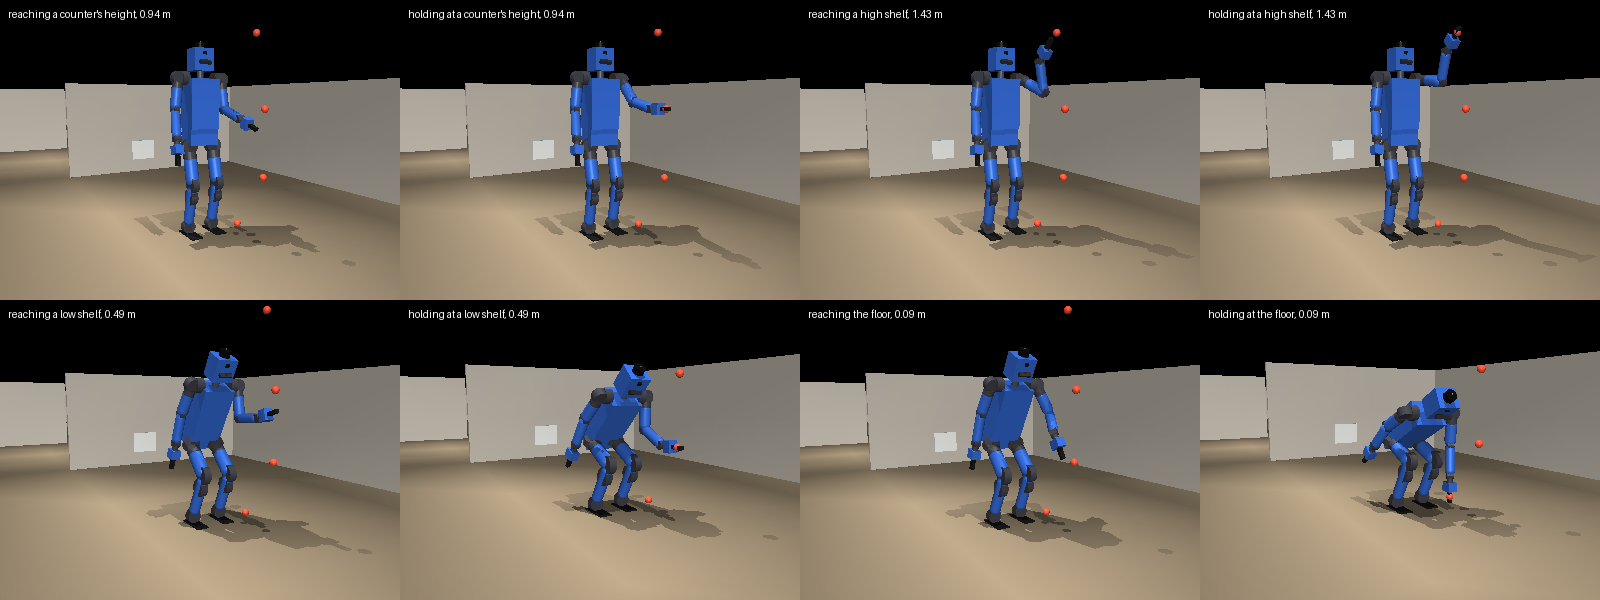
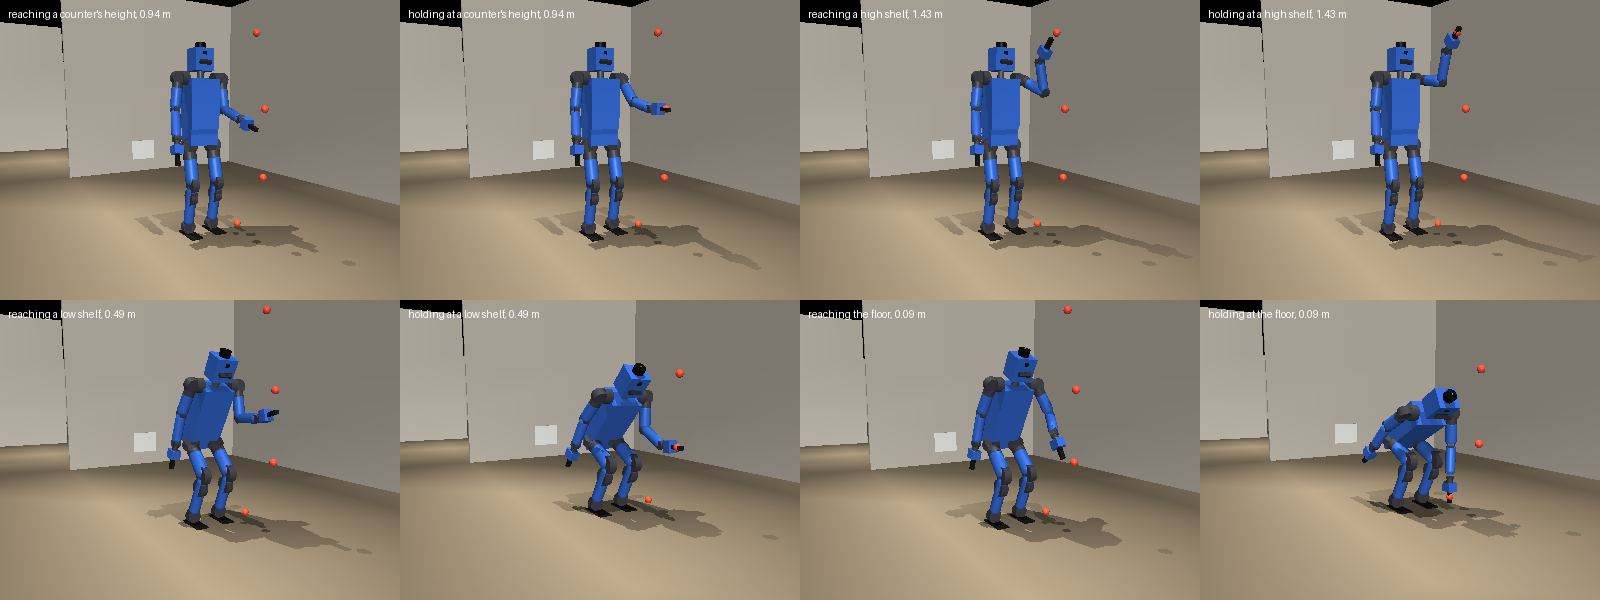
The reach scene through Body, and falls from a bow (#520)
`--view reach` (and `--strip reach`) fly the four heights through `Body`
with the get-up loaded, as served: flown on the standing rig alone, the
scene never showed the watch taking its bows for falls. `--fall` gains a
third table: each posture a reach takes, shoved four ways at 10-45 N*s,
on the standing policy alone (did it fall, and when each check would
have taken it, off the posture and off upright) and as served. The
spike's watches pass the posture held, as the mission's does. The
figure is the scene's filmstrip again, in stage 5's taller rooms.

Changed region(s): [[0.0, 0.0, 1.0, 0.15], [0.0, 0.48, 1.0, 0.66]]

diff --git a/scripts/humanoid_spike.py b/scripts/humanoid_spike.py
@@ -13,7 +13,8 @@ the parts and the bill.
                 its range in turn, then its grippers; `stand` -- on its own
                 feet, its standing policy, shoved, crouching and bowing;
                 `reach` -- a hand to a counter, a high shelf, a low shelf
-                and the floor, each held; `grasp` -- a drawer's handle
+                and the floor, each held, through `Body` with its get-up
+                loaded as served; `grasp` -- a drawer's handle
                 gripped (judged by the gripper's own reading) and the drawer
                 drawn out with a compliant arm, what the hand felt said
                 beside the truth; `demo` -- #466's chest on a counter, its
@@ -1182,27 +1183,127 @@ def reach_world():
   return standing_world(scenery)
 
 
-def reach_scene(h: Humanoid, records: list | None = None):
+def reach_body_world():
+  """The `reach` scene's world and the humanoid behind `Body` in it, its
+  get-up loaded as served -- its own fall watch at work, as wherever it
+  stands (#520: flown on the standing rig alone, the scene never showed
+  that the watch took the deepest bows for falls)."""
+  from pluggybot.body import body_for
+  model, data = reach_world()
+  body = body_for(model, data, policy=_POLICY)
+  return model, data, body
+
+
+def reach_scene(body, model, data, records: list | None = None):
+  """The `reach` scene, once, through `Body`: the left hand to each of
+  `REACH_TARGETS` -- told to the robot in its stance frame -- held, and
+  home. Yields a line when a part begins or ends. Where the grip truly is
+  is OUR grading; its falls are its own watch's."""
+  from pluggybot.humanoid.body import _rz
+  site = model.site("left_grip").id
+  body.start_at(*STAND_XY, STAND_YAW)
+  # Its stance is its odometry's, posed by its first ticks.
+  yield from drive(body, body.settle_routine(0.5))
   for label, goal in REACH_TARGETS:
     yield f"reaching {label}"
     rec = {"target": label}
-    yield from reach_and_hold(h, "left", HandGoal(goal.pos.copy(), goal.rot), record=rec,
-                              say=f"holding at {label}")
     if records is not None:
       records.append(rec)
-    if not rec.get("planned"):
-      yield "  no posture puts it in reach"
-    elif rec.get("blocked"):
-      yield (f"  stopped short: its own solve put the goal out of reach, or its hand "
-             f"pushed on something; held {100 * rec['miss_mean']:.1f} cm off it")
-    else:
+    falls, t0 = body.falls, data.time
+    x, y, yaw = body._true_stance()
+    truly = _rz(yaw) @ goal.pos + [x, y, 0.0]
+    rot = None if goal.rot is None else _rz(body.stance[2]) @ goal.rot
+    rec["reached"] = yield from drive(body, body.reach_routine(
+      "left", body.to_world(goal.pos), rot, patience=15.0))
+    rec["seconds"], rec["phase"] = data.time - t0, body.reach.phase["left"]
+    rec["posture"] = tuple(float(v) for v in body.reach.posture)
+    rec["slack"] = body.reach.slack["left"]
+    if rec["reached"]:
+      yield f"holding at {label}"
+      misses = []
+      for _ in drive(body, body.settle_routine(2.0)):
+        misses.append(float(np.linalg.norm(data.site_xpos[site] - truly)))
+        yield None
+      rec["miss_mean"], rec["miss_max"] = float(np.mean(misses)), float(np.max(misses))
+    yield from drive(body, body.release_routine("left"))
+    rec["falls"] = body.falls - falls
+    if rec["falls"]:
+      yield (f"  FELL by its own watch ({rec['falls']}): the get-up took every joint; "
+             f"the reach said {rec['reached']}")
+    elif rec["reached"]:
       yield (f"  posture {rec['posture'][0]:+.2f} m, {rec['posture'][1]:.2f} rad"
              f"{'' if rec['slack'] else ', the arm at full stretch'}; there in "
              f"{rec['seconds']:.1f} s; the grip {100 * rec['miss_mean']:.1f} cm off it "
-             f"held (worst {100 * rec['miss_max']:.1f})")
-    if h.fallen():
-      yield "FELL"
-      return
+             f"held (worst {100 * rec['miss_max']:.1f}); no fall by its own watch")
+    elif rec["phase"] == "blocked":
+      yield ("  stopped short: its own solve put the goal out of reach, or its hand "
+             "pushed on something")
+    elif rec["phase"] == "rest":
+      yield "  no posture puts it in reach"
+    else:
+      yield f"  not there in 15 s ({rec['phase']})"
+
+
+def view_reach() -> None:
+  from mujoco import viewer as mj_viewer
+  model, data, body = reach_body_world()
+  print("the `reach` scene: the left hand to a counter, a high shelf, a low shelf and the "
+        "floor, each held, through Body with its get-up loaded. Close the window to quit.")
+  with mj_viewer.launch_passive(model, data) as viewer:
+    viewer.cam.type = mujoco.mjtCamera.mjCAMERA_TRACKING
+    viewer.cam.trackbodyid = body.root
+    viewer.cam.distance, viewer.cam.azimuth = CAM_DISTANCE, CAM_AZIMUTH
+    viewer.cam.elevation = CAM_ELEVATION
+    while viewer.is_running():
+      wall = time.time() - data.time
+      for line in reach_scene(body, model, data):
+        if line:
+          print(f"  -> {line}")
+        if not viewer.is_running():
+          return
+        if int(round(data.time / model.opt.timestep)) % 10 == 0:
+          viewer.sync()
+          ahead = data.time - (time.time() - wall)
+          if ahead > 0:
+            time.sleep(ahead)
+
+
+def filmstrip_reach(out: str) -> None:
+  """The `reach` scene's filmstrip: a tile as it reaches each target and
+  as it holds there, labelled."""
+  from PIL import Image, ImageDraw
+  model, data, body = reach_body_world()
+  r = mujoco.Renderer(model, 300, 400)
+  tiles, pending, at = [], None, 0.0
+
+  def shoot(label):
+    cam = mujoco.MjvCamera()
+    cam.lookat[:] = data.xpos[body.root] + [0.0, 0.0, -0.1]
+    cam.distance, cam.azimuth, cam.elevation = CAM_DISTANCE, CAM_AZIMUTH, CAM_ELEVATION
+    r.update_scene(data, cam)
+    img = Image.fromarray(r.render())
+    ImageDraw.Draw(img).text((8, 8), label[:60], fill=(255, 255, 255))
+    tiles.append(img)
+  for line in reach_scene(body, model, data):
+    if line and not line.startswith("  "):
+      if pending is not None:
+        shoot(pending)
+      pending, at = line, data.time + 0.9
+    elif line:
+      print(line)
+    if pending is not None and data.time >= at:
+      shoot(pending)
+      pending = None
+  if pending is not None:
+    shoot(pending)
+  r.close()
+  body.close()
+  strip = Image.new("RGB", (400 * min(4, len(tiles)), 300 * ((len(tiles) + 3) // 4)),
+                    (255, 255, 255))
+  for k, tile in enumerate(tiles):
+    strip.paste(tile, (400 * (k % 4), 300 * (k // 4)))
+  strip.save(out)
+  print(f"wrote {out}")
 
 
 # ---- the scene: `grasp` ------------------------------------------------------------
@@ -1363,15 +1464,13 @@ def _world_for(scene: str, policy=None):
   policy = policy or _POLICY
   if scene == "stand":
     model, data = standing_world()
-  elif scene == "reach":
-    model, data = reach_world()
   else:
     model, data = standing_world(counter_scenery)
   return model, data, Humanoid(model, data, policy)
 
 
 def _scene_gen(scene: str, h: Humanoid):
-  return {"stand": stand_scene, "reach": reach_scene, "grasp": grasp_scene}[scene](h)
+  return {"stand": stand_scene, "grasp": grasp_scene}[scene](h)
 
 
 def view_stage2(scene: str) -> None:
@@ -2721,11 +2820,11 @@ def filmstrip_stairs(out: str, every_s: float = 2.0) -> None:
 # driven back against its part's no-load speed (back-driven past it, a
 # motor pumps the bus). Three ways to
 # fall: the standing policy keeps the legs; the drivers go limp once the
-# trunk has tipped past `getup.FALL_TILT_RAD`; or the get-up policy takes
+# trunk has tipped `getup.FALL_TILT_RAD` past its posture; or the get-up policy takes
 # the legs and arms there (`humanoid.getup`), and gets up.
 
-from pluggybot.humanoid.getup import (FALL_TILT_RAD, GETUP_NPZ, FallWatch,  # noqa: E402
-                                      GetupDriver)
+from pluggybot.humanoid.getup import (COLLAPSED_M, FALL_TILT_RAD, GETUP_NPZ,  # noqa: E402
+                                      FallWatch, GetupDriver, over_lower_sole, tipped)
 
 #: The shoves, the robot's frame (x ahead), and how hard, N*s: past what it
 #: stands through every way (`--shove`: 10-20 N*s), it goes over.
@@ -2775,7 +2874,7 @@ def fall_trial(way: str, mode: str, npz: str | None = None, ns: float = FALL_NS)
       if next(gen, "done") == "done":
         gen = None
       continue
-    if took_over is None and watch.falling(d):
+    if took_over is None and watch.falling(d, h.reach.held_pitch()):
       took_over = d.time - t0
       if mode == "getup":
         getup.begin()
@@ -2832,7 +2931,8 @@ def fall_table(npz: str | None = None, jobs: int = 4) -> list[dict]:
   peak_tau = np.array([hm.CHOSEN.motor(j).peak_torque for j in hm.JOINT_NAMES])
   noload = np.array([hm.CHOSEN.motor(j).noload_speed for j in hm.JOINT_NAMES])
   print(f"FALLS, shoved {FALL_NS:g} N*s at the trunk each way, standing on a bare floor; the "
-        f"get-up policy or the limp drivers take over past {math.degrees(FALL_TILT_RAD):.0f} deg")
+        f"get-up policy or the limp drivers take over {math.degrees(FALL_TILT_RAD):.0f} deg past its "
+        "posture")
   print("  each part: the speed it first touched the floor at, m/s, and the hardest the floor "
         "pushed back, kN (MuJoCo's soft contact: an upper bound's shape, not a number to bank)")
   print("  gears past peak: joints whose torque through the gears passed their part's peak "
@@ -2893,7 +2993,7 @@ def house_fall_trial(place: str, way: str, npz: str | None = None, ns: float = F
       if next(gen, "done") == "done":
         gen = None
       continue
-    if took is None and watch.falling(d):
+    if took is None and watch.falling(d, h.reach.held_pitch()):
       took = d.time - t0
       getup.begin()
     if took is not None and stood is None:
@@ -2958,6 +3058,138 @@ def house_fall_table(npz: str | None = None, jobs: int = 4) -> list[dict]:
   return rows
 
 
+# Falls from a bow (#520): the watch reads a tip off the posture the legs
+# hold, so a bow a reach asks is no fall, and a shove from one still is.
+# Each posture a reach takes, shoved each way at four strengths: once on the
+# standing policy alone, graded by us off the world -- did it fall -- with
+# the moment each check WOULD have taken it; once as served, the checks
+# handing the fall to the get-up policy.
+
+#: The postures (height off the stand's, m; pitch, rad): the stand and
+#: `reach.POSTURES`' bows. The shoves' ways and strengths, N*s, and how long
+#: each is watched, s.
+BOW_POSTURES = ((0.0, 0.0), (-0.2, 0.55), (-0.22, 0.8), (-0.25, 0.95), (-0.25, 1.1))
+BOW_WAYS, BOW_NS, BOW_WATCH_S = ("front", "back", "left", "right"), (10.0, 20.0, 30.0, 45.0), 6.0
+
+
+def bow_fall_trial(held, way: str, ns: float, served: bool, npz: str | None = None) -> dict:
+  """The robot on a bare floor settled in posture `held` (its reach holding
+  it, as a plan's posture is), shoved `way` at `ns` N*s and watched
+  `BOW_WATCH_S`: when each check fires -- the tilt past the posture (the
+  watch's), off upright (the watch's as it was), the collapse -- what struck
+  the floor first, a hand aside, and when, and the head's speed into it;
+  whether it fell, by our grading (a part struck, or its pelvis 0.15 m under
+  where it held); and `served`, the checks handing the fall to the get-up
+  policy, when it stood."""
+  h = floor_humanoid()
+  m, d = h.m, h.d
+  floor, head = m.geom("floor").id, m.geom("head").id
+  part_of = {m.geom(g).id: p for p, gs in FALL_PARTS.items() for g in gs}
+  watch = FallWatch(h.stand.trunk, h.stand.joints)
+  getup = GetupDriver(m, d, policy=StandPolicy(npz or str(GETUP_NPZ)), trunk=h.stand.trunk,
+                      joints=h.stand.joints) if served else None
+  every = max(1, round(h.stand.policy.period / m.opt.timestep))
+  _drain(wait(h, 1.0))
+  _drain(posture(h, *held))
+  _drain(wait(h, 1.5))
+  z0 = float(d.xpos[h.root][2])
+  rec = {"posture": tuple(held), "way": way, "ns": ns, "served": served, "tilt_s": None,
+         "upright_s": None, "collapse_s": None, "first": None, "hit_s": None, "head_v": None,
+         "stood_s": None, "max_tip": 0.0}
+  _drain(shove(h, FALL_WAYS[way], ns))
+  vel = np.zeros(6)
+  t0, n, up = d.time, 0, False
+  while d.time - t0 < BOW_WATCH_S:
+    if not up and n % every == 0:
+      t, g = d.time - t0, h.stand.trunk.gravity()
+      tip = tipped(g, h.reach.held_pitch())
+      rec["max_tip"] = max(rec["max_tip"], tip)
+      sunk = over_lower_sole(watch.sm, h.stand.joints.read(d)[0], g) < COLLAPSED_M
+      for key, fired in (("tilt_s", tip > FALL_TILT_RAD), ("collapse_s", sunk),
+                         ("upright_s", h.stand.trunk.attitude.tilt() > FALL_TILT_RAD)):
+        if fired and rec[key] is None:
+          rec[key] = t
+      if served and (tip > FALL_TILT_RAD or sunk):
+        up = True
+        getup.begin()
+    if up:
+      getup.step()
+      mujoco.mj_step(m, d)
+      if getup.stood:
+        rec["stood_s"] = d.time - t0
+        break
+    else:
+      h.step()
+    n += 1
+    for i in range(d.ncon):
+      c = d.contact[i]
+      other = c.geom2 if c.geom1 == floor else c.geom1 if c.geom2 == floor else None
+      if other not in part_of or part_of[other] == "hands":
+        continue
+      if rec["first"] is None:
+        rec["first"], rec["hit_s"] = part_of[other], d.time - t0
+      if other == head and rec["head_v"] is None:
+        mujoco.mj_objectVelocity(m, d, mujoco.mjtObj.mjOBJ_GEOM, head, vel, 0)
+        rec["head_v"] = float(np.linalg.norm(vel[3:]))
+  rec["fell"] = rec["hit_s"] is not None or float(d.xpos[h.root][2]) < z0 - 0.15
+  return rec
+
+
+def _bow_fall_trial(job):
+  return bow_fall_trial(*job)
+
+
+def _span(values, fmt: str = "{:.1f}") -> str:
+  return "-" if not values else fmt.format(min(values)) + "-" + fmt.format(max(values))
+
+
+def bow_fall_table(npz: str | None = None, jobs: int = 4) -> list[dict]:
+  """--fall, from a bow: each posture a reach takes, shoved each way at each
+  strength, on the standing policy alone and as served."""
+  import multiprocessing as mp
+  work = [(p, w, ns, s, npz) for s in (False, True) for p in BOW_POSTURES for w in BOW_WAYS
+          for ns in BOW_NS]
+  with mp.get_context("spawn").Pool(jobs, maxtasksperchild=1) as pool:
+    rows = pool.map(_bow_fall_trial, work)
+  alone = [r for r in rows if not r["served"]]
+  served = [r for r in rows if r["served"]]
+  print(f"FALLS FROM A BOW, on a bare floor: each posture a reach takes, shoved {', '.join(BOW_WAYS)} "
+        f"at {', '.join(f'{ns:g}' for ns in BOW_NS)} N*s. On the standing policy alone, graded by "
+        "us: the falls, which check would have taken each first, how long before a part but a "
+        "hand struck the floor, and the shoves it stood through that a check took for a fall -- "
+        "the tilt past the posture (the watch) and off upright (the watch as it was). As served, "
+        "the checks handing each fall to the get-up policy: stood, s from the shove; and the "
+        "head into the floor, m/s, alone and served")
+  print(f"{'posture':>14s}{'falls':>7s}{'first: tilt, collapse':>23s}{'ahead, s':>11s}"
+        f"{'false: posture, upright':>25s}{'stood, served':>18s}{'head alone':>17s}"
+        f"{'head served':>17s}")
+  for p in BOW_POSTURES:
+    fell = [r for r in alone if r["posture"] == p and r["fell"]]
+    stood_through = [r for r in alone if r["posture"] == p and not r["fell"]]
+    by_tilt = sum((r["tilt_s"] is not None)
+                  and (r["collapse_s"] is None or r["tilt_s"] <= r["collapse_s"]) for r in fell)
+    caught = [min(t for t in (r["tilt_s"], r["collapse_s"]) if t is not None) for r in fell
+              if r["tilt_s"] is not None or r["collapse_s"] is not None]
+    ahead = [r["hit_s"] - c for r, c in zip(fell, caught) if r["hit_s"] is not None]
+    false_now = sum(r["tilt_s"] is not None or r["collapse_s"] is not None for r in stood_through)
+    false_was = sum(r["upright_s"] is not None or r["collapse_s"] is not None for r in stood_through)
+    up = [r for r in served if r["posture"] == p and (r["stood_s"] is not None or r["fell"])]
+    stood = [r["stood_s"] for r in up if r["stood_s"] is not None]
+    heads = [r["head_v"] for r in fell if r["head_v"]]
+    heads_s = [r["head_v"] for r in up if r["head_v"]]
+    print(f"{p[0]:+6.2f} m {p[1]:4.2f}{len(fell):>4d}/{len(fell) + len(stood_through)}"
+          f"{f'{by_tilt}, {len(caught) - by_tilt}':>23s}{_span(ahead, '{:.2f}'):>11s}"
+          f"{f'{false_now} of {len(stood_through)}, {false_was}':>25s}"
+          f"{f'{len(stood)}/{len(up)}, {_span(stood)}':>18s}"
+          f"{f'{len(heads)}, {_span(heads)}':>17s}{f'{len(heads_s)}, {_span(heads_s)}':>17s}")
+  missed = [r for r in alone if r["fell"] and r["tilt_s"] is None and r["collapse_s"] is None]
+  most = max(r["max_tip"] for r in alone if not r["fell"])
+  print(f"  falls neither check took: {len(missed)}; the most a shove it stood through tipped it "
+        f"past its posture: {math.degrees(most):.1f} deg, against the watch's "
+        f"{math.degrees(FALL_TILT_RAD):.0f}")
+  return rows
+
+
 # The scenes `fall` and `getup`: on a bare floor, the get-up policy taking
 # over as the humanoid's mission hands it a falling body (`humanoid.mission`:
 # its senses say it is falling, every joint goes to the get-up policy, and
@@ -3008,7 +3240,7 @@ class Falling:
         h.reach = Reach(h.m, h.d, h.stand)
     else:
       h.step()
-      if self.n % self.every == 0 and self.watch.falling(h.d):
+      if self.n % self.every == 0 and self.watch.falling(h.d, h.reach.held_pitch()):
         self.take()
     self.n += 1
 
@@ -3257,7 +3489,7 @@ def speed_table(sim_s: float = 60.0, profile: bool = False) -> None:
 
 
 SCENES = {"body": view_body, "stand": lambda: view_stage2("stand"),
-          "reach": lambda: view_stage2("reach"), "grasp": lambda: view_stage2("grasp"),
+          "reach": view_reach, "grasp": lambda: view_stage2("grasp"),
           "demo": view_demo, "walk": view_walk, "rough": view_rough, "stairs": view_stairs,
           "fall": view_fall, "getup": view_getup}
 
@@ -3299,7 +3531,8 @@ def main(argv=None) -> None:
                        "riser, on the ideal scan and on its own map's")
   ap.add_argument("--fall", nargs="?", const="", default=None, metavar="NPZ",
                   help="shoved over each way: what hits first, how hard, each joint's torque "
-                       "and speed, falling on the standing policy, limp, or the get-up's")
+                       "and speed, falling on the standing policy, limp, or the get-up's; in "
+                       "the house; and from each bow a reach takes, what the watch says")
   ap.add_argument("--speed", nargs="?", type=float, const=60.0, default=None, metavar="SIM_S",
                   help="the loop's cost: the quadruped pair, one humanoid and a pair, the same "
                        "walks in the house, timed (--profile: where it goes)")
@@ -3316,6 +3549,8 @@ def main(argv=None) -> None:
     _GETUP = args.getup_policy
   if args.view:
     SCENES[args.view]()
+  elif args.strip == "reach":
+    filmstrip_reach(args.out)
   elif args.strip == "demo":
     filmstrip_demo(args.out)
   elif args.strip == "walk":
@@ -3350,6 +3585,7 @@ def main(argv=None) -> None:
   elif args.fall is not None:
     fall_table(args.fall or None, jobs=args.jobs)
     house_fall_table(args.fall or None, jobs=args.jobs)
+    bow_fall_table(args.fall or None, jobs=args.jobs)
   elif args.mass:
     mass_table()
   elif args.torque:
